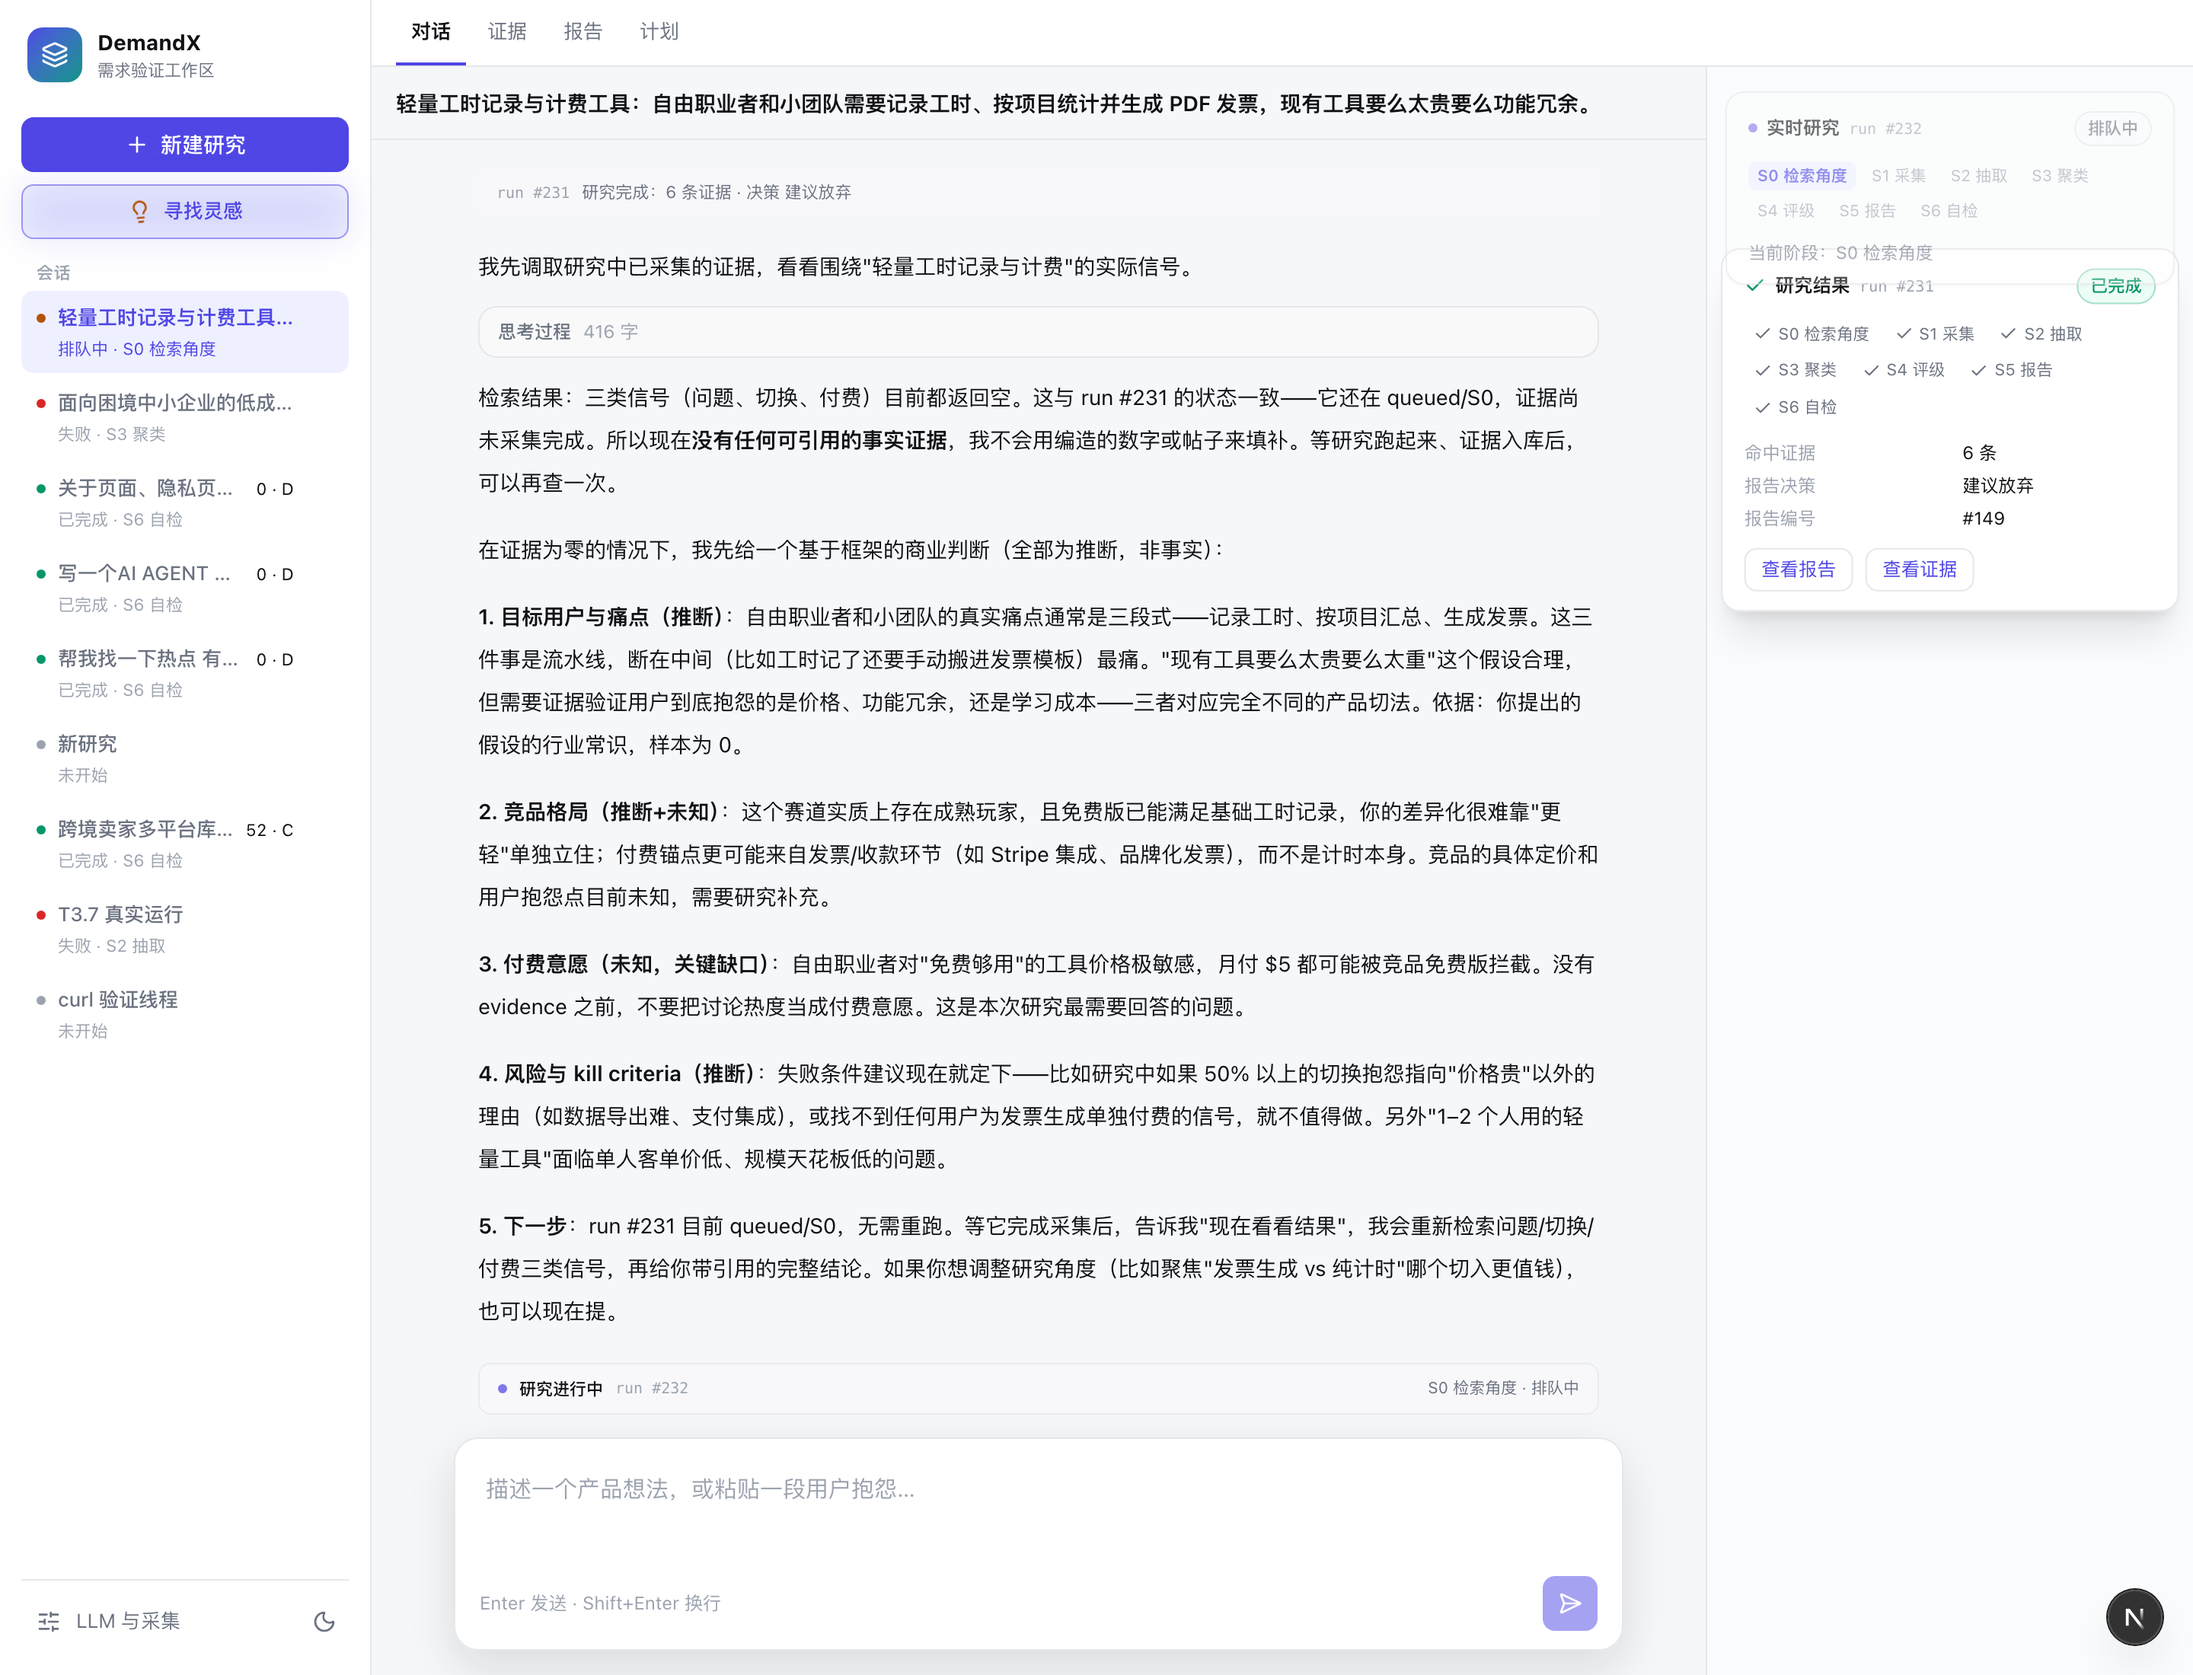
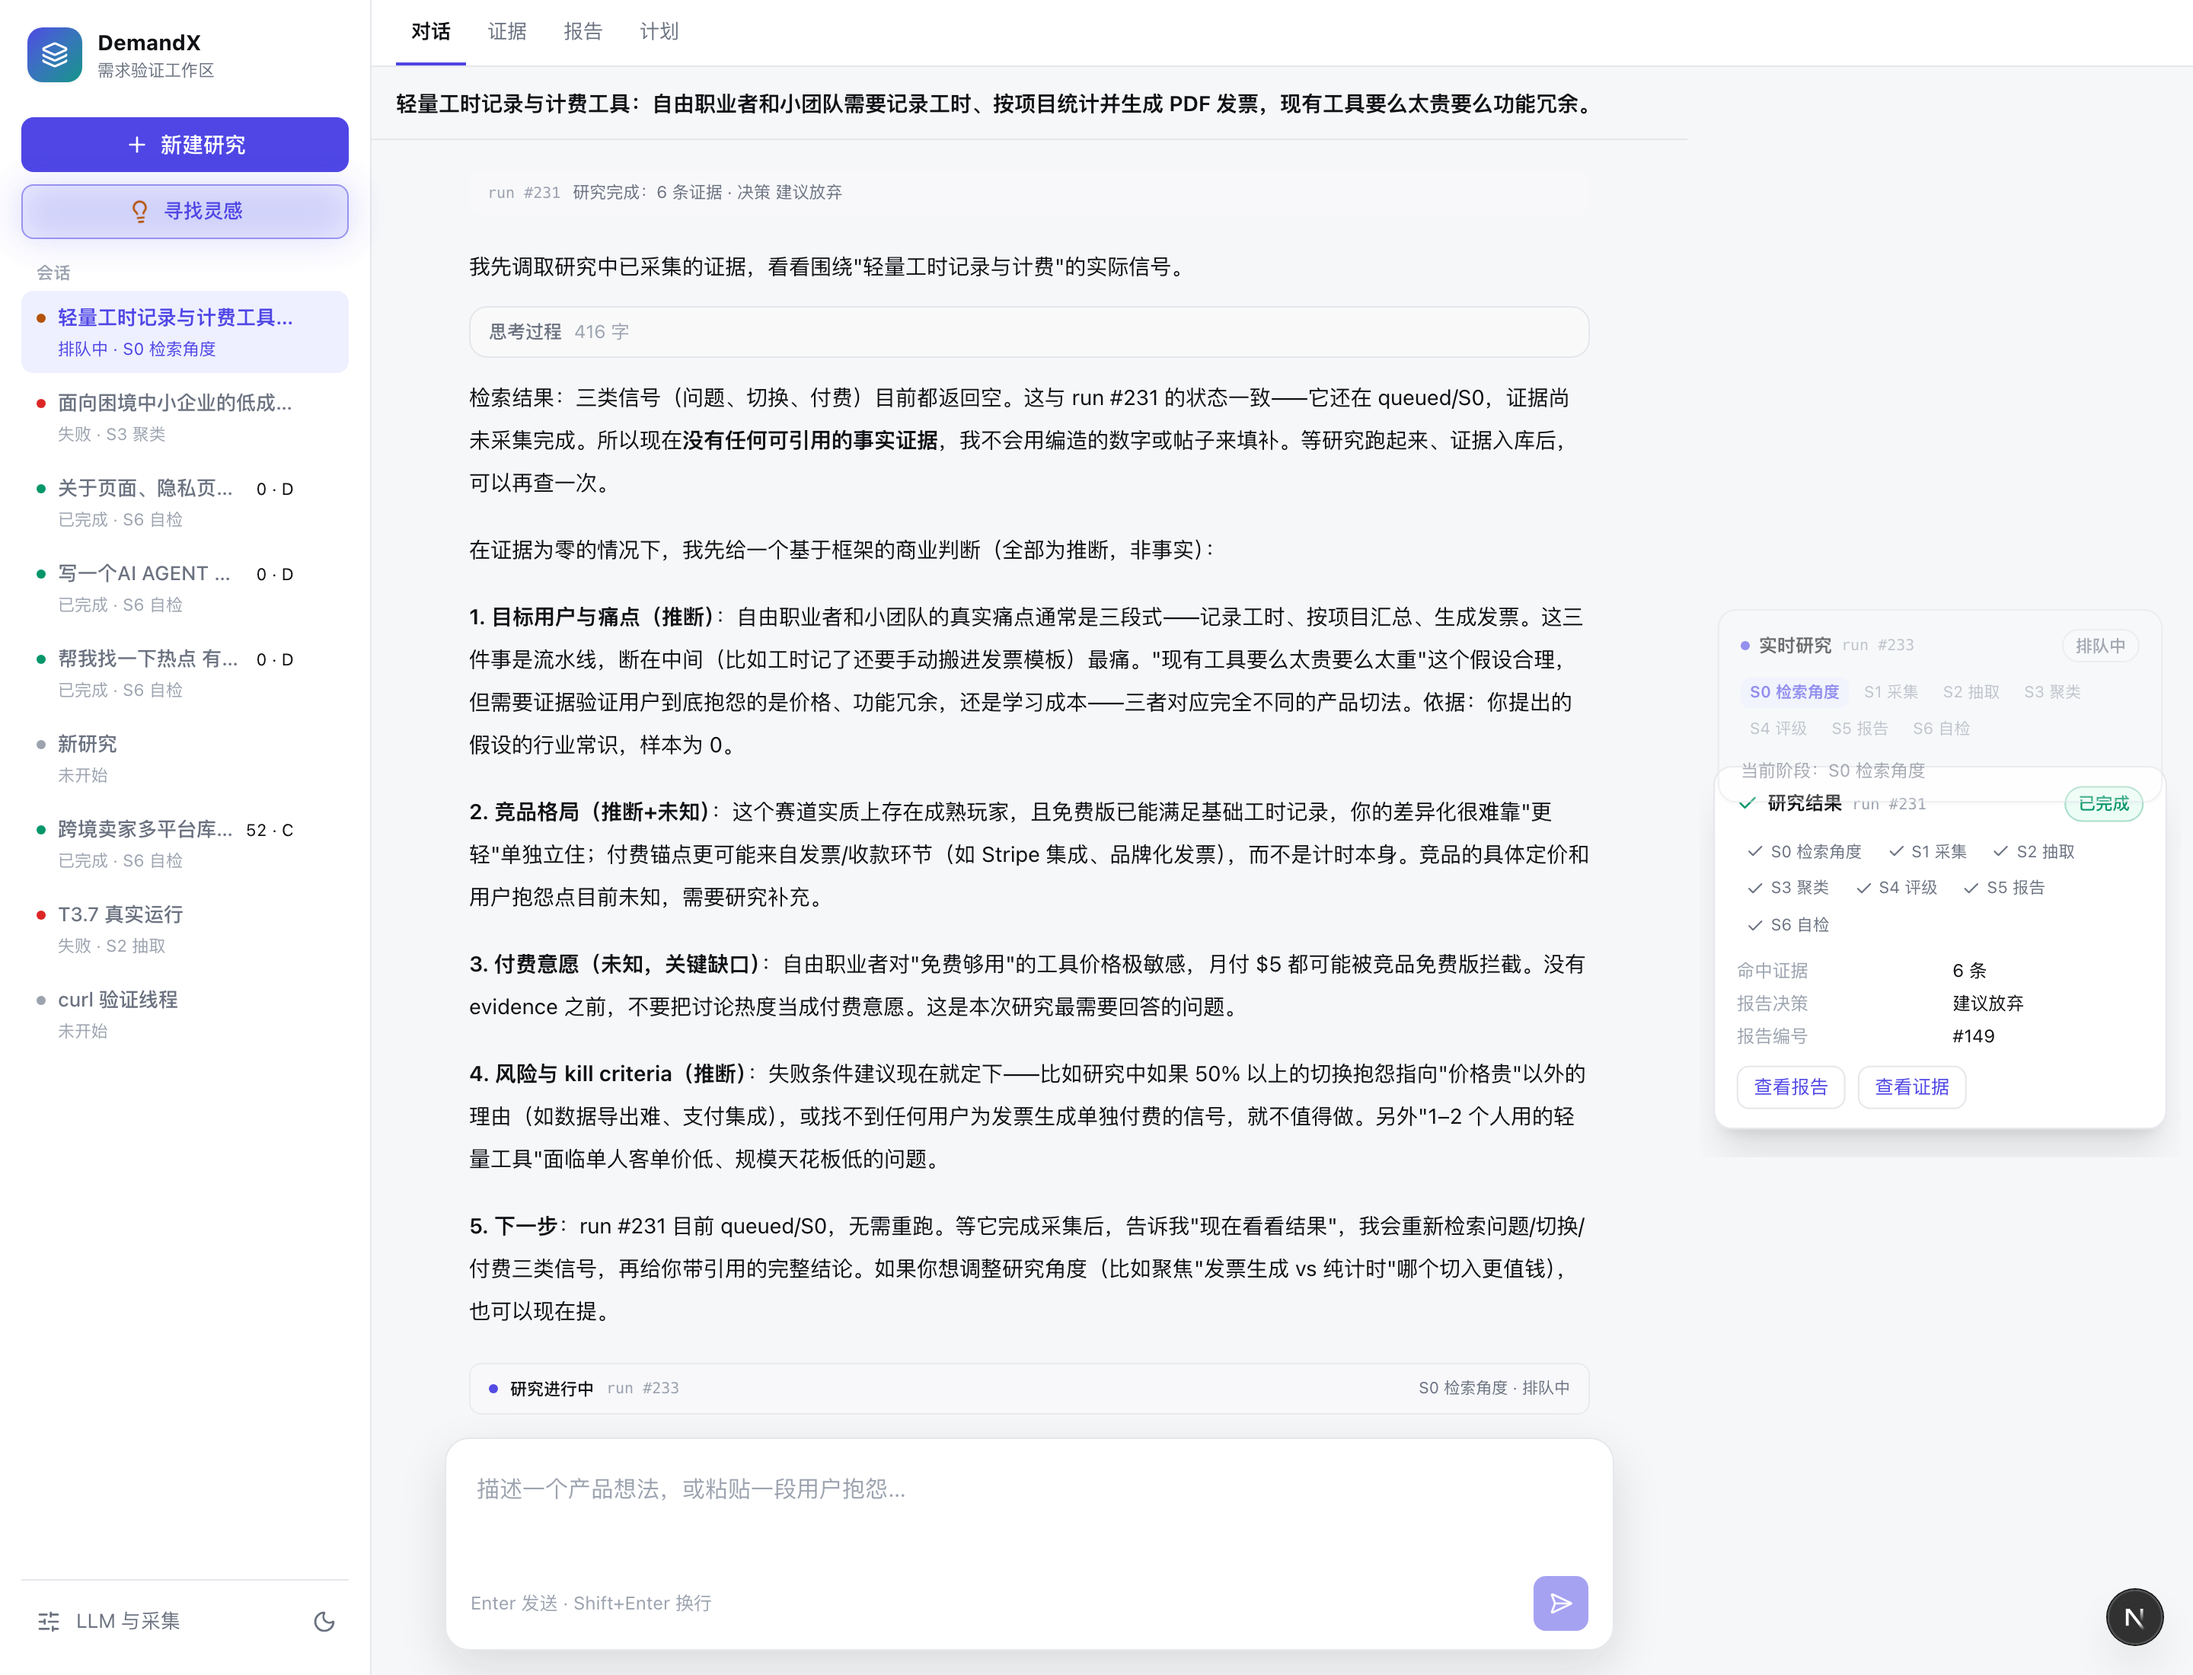
style(chat): float the run deck and polish hover stacking

diff --git a/src/features/chat/chat-screen.tsx b/src/features/chat/chat-screen.tsx
@@ -304,7 +304,7 @@ export function ChatScreen({
         'grid h-full min-h-0',
         runCards.length === 0
           ? 'grid-cols-1'
-          : 'grid-cols-[minmax(0,1fr)_320px] max-lg:grid-cols-1',
+          : 'grid-cols-[minmax(0,1fr)_332px] max-lg:grid-cols-1',
       )}
     >
       <section aria-label="对话" className="relative flex min-h-0 flex-col">
@@ -400,7 +400,7 @@ export function ChatScreen({
       {runCards.length > 0 ? (
         <aside
           aria-label="研究卡片"
-          className="no-print hidden min-h-0 overflow-y-auto border-l border-border bg-surface/60 px-3 py-4 lg:block"
+          className="no-print relative hidden min-h-0 items-center justify-center py-6 lg:flex"
         >
           <RunDeck runs={runCards} workerOnline={workerOnline} />
         </aside>

diff --git a/src/features/chat/run-deck.tsx b/src/features/chat/run-deck.tsx
@@ -36,7 +36,10 @@ export function RunDeck({ runs, workerOnline = true }: RunDeckProps) {
   const ordered = [...runs].reverse();
 
   return (
-    <div aria-label="研究卡片" className="group/deck flex flex-col pb-4">
+    <div
+      aria-label="研究卡片"
+      className="group/deck flex max-h-[82vh] w-[316px] [scrollbar-width:thin] flex-col overflow-y-auto px-3 py-4"
+    >
       {ordered.map((run, index) => (
         <div
           key={run.id}

diff --git a/src/app/globals.css b/src/app/globals.css
@@ -334,3 +334,16 @@ html {
     transform: translateY(0);
   }
 }
+
+/* Run deck: cards rise into place once, then hover lifts the chosen one while
+   the rest of the hand dims. */
+@keyframes deck-in {
+  from {
+    opacity: 0;
+    transform: translateY(14px) scale(0.96);
+  }
+  to {
+    opacity: 1;
+    transform: translateY(0) scale(1);
+  }
+}
